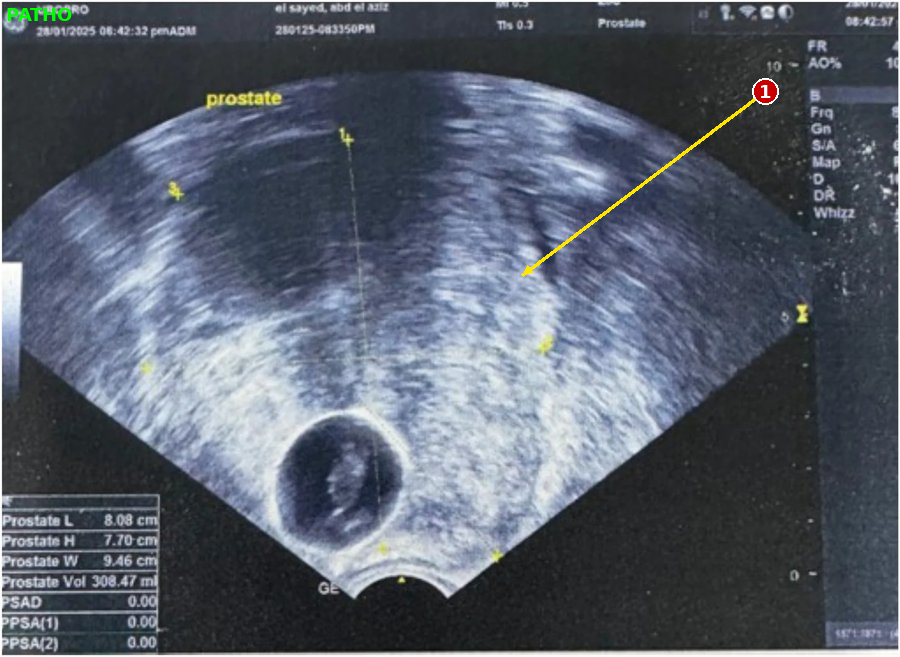
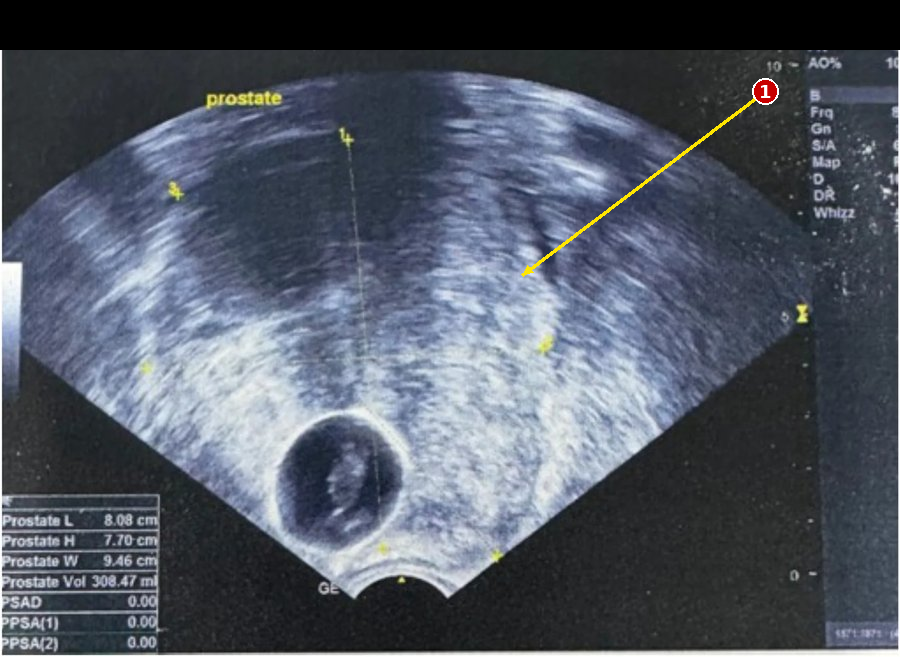
IMG-242 : bandeau avec le nom du patient masqué ; audits images 238-268 et Management/KK.
Claude-Session: https://claude.ai/code/session_01JErHPrLsKaTuQ8vQo4KBsh

Changed region(s): [[0.0, 0.0, 1.0, 0.0913]]

diff --git a/Claude/_progression/donnees/semiologie/AUDIT_M_KK.md b/Claude/_progression/donnees/semiologie/AUDIT_M_KK.md
@@ -1,0 +1,62 @@
+# Audit médical agressif : Management M-01 à M-17 et Communication K-01 à K-18
+
+Version auditée : 35 fichiers JSON, 125 439 octets, SHA-256 de la concaténation `4706b7b7…9659` (commit 5c1f24343). Date : 14.11.2026. Auditeur indépendant (non rédacteur). Le score 14 points du §12.2 ne s'applique pas (fiches, pas monographies) ; chaque axe reçoit donc 2, 1 ou 0.
+
+## Ce que j'ai réellement lu et vérifié
+
+| Contrôle | Source ouverte ce jour | Résultat |
+|---|---|---|
+| Quatre dimensions KK | Exigences MED 2026 § 5.1.4 b (PDF OFSP) | Citation **exacte** dans K-01 à K-04 ; dimensions 1 et 4 non évaluées sans PS : exact |
+| Ancres 1–5 | Directives MED 2026 § 4.3 h | Mention « construites, non officielles » présente dans K-01 à K-04 ; § 4.3 h exact |
+| Format des stations | Informations MED 2026 § 5.1–5.6, note 1 ; Directives § 4.3 b, 5.2 e, 6.2 ; Richtlinien (de) § 5.2 e | Exact (4 + 9 min, 8 min, pas de résumé en CR, matériel, dialecte) |
+| Adrénaline, amiodarone | AIPS refdata via `aips_fiche.py` : Adrenalin Aguettant 1 mg/mL n° 66396 (juin 2023) ; Amiodarone Labatec i.v. n° 59528 (mars 2025) | Citations **mot pour mot exactes**, numéros et dates exacts |
+| ALS : moment des médicaments, accès | SIRMED (Suisse), « Reanimation 2025 », paraplegie.ch ; (source européenne : Resuscitation Council UK, algorithme ALS 2025) | Voir défaut G1 |
+| Capacité de discernement | ASSM, directives « La capacité de discernement dans la pratique médicale » (2019, approuvées 29.11.2018), § 2.3, 2.4 | Voir M1, M2 |
+| CC art. 16, 371, 378, 379, 429, 430, 434, 439 | fedlex, filestore, version du 1.1.2026 | Contenu des fiches exact ; « non relu » désormais levable |
+| Guide ASSM 2022 | Zenodo 7148494, PDF lu | 10 citations « dire » vérifiées mot pour mot (vignette, thoracoscopie, OARS, DA, NURSE « pas déjà », 12 ans, 7 ans) |
+| smarter medicine | SSMIG 2014 (5 points), SSMIG 2021_II point 1, SSI 2020 (5 points) | Exact ; bactériurie absente de la liste SSI (voir M4) |
+| Calcul M-04 | Python : 0,2/0,8 = 0,25 ; × 10 = 2,5 ; 2,5/3,5 = 0,714 | Exact |
+| Liens | 219 identifiants du corpus | Aucun lien mort |
+
+## Défauts et PATCH exacts
+
+| # | Gravité | Emplacement | Extrait (mot pour mot) | PATCH | Source |
+|---|---|---|---|---|---|
+| G1 | **Grave** | M-03, étape 5, `faire` 3 et 4 | « Administrer l'adrénaline selon l'AIPS : « Administration de 1 ml… » » | Insérer avant la citation : « Donner l'adrénaline dès que possible en asystolie ou en activité électrique sans pouls ; en rythme choquable, après le 3e choc, puis toutes les 3 à 5 minutes. » Insérer avant l'amiodarone : « Donner l'amiodarone après le 3e choc ; envisager 150 mg après le 5e choc. » Remplacer « Poser un accès veineux ou intraosseux » par « Poser d'abord un accès veineux, puis un accès intraosseux si la voie veineuse échoue ». | SIRMED, Reanimation 2025 (« i.v. VOR i.o. », « ERC: nach dem 3. Schock ») ; (source européenne : RC UK ALS 2025) |
+| M1 | Moyen | M-14, étape 1, `faire` 1 | « la capacité se juge pour une décision donnée, à un moment donné (CC art. 16, cité par l'ASSM) » | Remplacer la parenthèse par « (ASSM, directives Capacité de discernement 2019, § 2.3 ; l'art. 16 CC ne le dit pas lui-même) ». | ASSM 2019 § 2.3 ; CC art. 16 |
+| M2 | Moyen | M-14, étape 1, `faire` 2 ; grille 2 ; source 4 | « comprendre l'information, apprécier sa situation, raisonner sur les options, exprimer un choix stable (directives ASSM 2018, non lues, À vérifier) » | « Tester quatre capacités : compréhension, évaluation, formation de la volonté, concrétisation de la volonté (ASSM 2019, § 2.4, lu) ». Source 4 : « ASSM, … (2019) — lu le 14.11.2026, § 2.3–2.4 ». | ASSM 2019 § 2.4 |
+| M3 | Moyen | M-14 étape 4 ; M-15 étape 3 ; M-16 étape 6 ; sources CC de M-14, M-15, M-16, K-14 | « selon l'ordre du CC (non relu, À vérifier) » ; « CC, non relu » | Écrire l'ordre de l'art. 378 al. 1 (personne désignée, curateur, conjoint, concubin, descendants, parents, frères et sœurs, chacun s'il assiste régulièrement) ; citer l'art. 379 ; art. 371 al. 1 « datées et signées » ; M-15 : ajouter « délai d'appel de dix jours (art. 439 al. 2) », « informer si possible un proche par écrit (art. 430 al. 5) » et les trois conditions du traitement sans consentement (art. 434). Remplacer « non relus » par « lus le 14.11.2026 (fedlex, version 1.1.2026) ». | CC art. 371, 378, 379, 430, 434, 439 |
+| M4 | Moyen | M-06, `erreurs` 3 | « Traiter une bactériurie asymptomatique hors grossesse (déduction, À vérifier). » | « Traiter une bactériurie asymptomatique, sauf grossesse, greffe ou geste urologique invasif (cas par cas, avis infectiologique) (HUG 2026). » Ajouter un exemple de 1re ligne (cystite : nitrofurantoïne ou fosfomycine, HUG 2026), doses AIPS via `aips_fiche.py`. | HUG, Stratégie « Infections urinaires » 2026, p. 17 |
+| M5 | Moyen | M-07, étape 4 et sources 5–6 | « (OMS, dernier recours, À vérifier) » ; « DN4 — non lu » | Citer la source suisse lue : « HUG, Stratégie Douleur aiguë 2024 (paliers OMS, DN4, laxatif systématique) ». Garder l'OMS en second. | HUG Douleur aiguë 2024, § 3–4.2 |
+| M6 | Moyen | M-07, `exemple_station` | « explique la somnolence possible et la conduite interdite » | « … et l'interdiction de conduire tant qu'il se sent somnolent » (cohérent avec l'étape 5). | Cohérence interne |
+| M7 | Moyen | M-02, étape A ; `exemple_station` | « Libérer les voies aériennes… » (cas d'un cycliste traumatisé) | Ajouter : « Chez le traumatisé, limiter les mouvements du rachis cervical pendant A. » Remplacer la source ATLS (américaine, non lue) par une source européenne : Rossaint et al., European guideline on management of major bleeding after trauma, 6e éd., Crit Care 2023 — à lire. | Règle « aucune source américaine exclusive » |
+| M8 | Moyen | K-15, `exemple_station` | « L'examinateur note la communication avec l'infirmier et avec le médecin appelé. » | « L'examinateur note la communication avec le patient et avec l'infirmier (Informations MED 2026 § 5.5). » | Informations MED 2026 § 5.5 |
+| M9 | Moyen | M-03 étape 6 ; M-16 étapes 4 et 6 | Aucune source suisse sur la décision de réanimation | Ajouter « ASSM, Directives Décisions de réanimation (éd. 2021) — non lu, À vérifier » et l'étape « Informer des chances réalistes de survie avant de demander le choix ». | ASSM (édition 2013 trouvée sur sams.ch ; 2021 non lue) |
+| L1 | Léger | K-14, étape 4 | « l'ASSM écrit : « Dès douze ans, les adolescents sont capables de discernement » » | Citation exacte (vérifiée). Ajouter : « repères ASSM 2019 : 12 ans pour une intervention simple, 16 ans pour un traitement complexe ou long ». | ASSM 2019, p. 20 |
+| L2 | Léger | M-14, M-15, M-16, K-14 sources | « art. 16 (cité mot pour mot par l'ASSM 2022) » | L'ASSM cite l'ancienne teneur (« à cause de ») ; écrire « teneur en vigueur : « en raison de son jeune âge… » ». | CC art. 16 |
+| L3 | Léger | M-03, étape 5, `faire` 5 | « hypothermie » | « hypo- ou hyperthermie » ; ajouter « envisager la position antéro-postérieure des électrodes après 3 chocs ». | RC UK ALS 2025 |
+| L4 | Léger | M-03, étape 3 | « chez l'enfant et le noyé, commencer par cinq insufflations puis 15:2 (enfant) » | « … puis 15:2 si formé à la réanimation pédiatrique, sinon 30:2 ». | SIRMED 2025 |
+| L5 | Léger | M-10, ponction lombaire | « ou œdème papillaire (ESCMID…) » | ESCMID 2016 retient un GCS < 10, pas l'œdème papillaire ; corriger après lecture. | ESCMID 2016 (à lire) |
+| L6 | Léger | M-01 et M-02, `exemple_station` | « Mme Meier, 45 ans… (exemple officiel) » ; « contrôle d'abord une hémorragie visible » | Séparer : « Exemple officiel : … » puis « Déroulé construit : … » ; l'âge et l'hémorragie ne figurent pas dans le texte officiel. | Informations MED 2026 § 5.1, 5.5 |
+| L7 | Léger | K-18, étape 2 | « Dörf ich Hochdütsch rede ? … » | Un candidat qui comprend mal le dialecte demande en allemand standard : « Könnten wir bitte Hochdeutsch sprechen? Ich verstehe den Dialekt leider nicht so gut. » | Réalisme |
+| L8 | Léger | K-01 à K-04, dernière ligne de grille | « Station sans PS : dimension non évaluée. » | Phrase verbale : « L'examinateur n'évalue pas cette dimension sans PS. » | Règle des phrases verbales |
+| L9 | Léger | M-17 et K-17 | Même scénario (antihypertenseur du voisin) | Changer l'un des deux (ex. K-17 : surdosage d'insuline et hypoglycémie). | Redondance |
+
+## Score par axe (2 / 1 / 0)
+
+| Axe | Note | Raison |
+|---|---|---|
+| Doses AIPS | 2 | Deux citations exactes, numéros et dates justes ; aucune dose hors AIPS |
+| ABCDE, BLS/ALS | 1 | BLS conforme ; ALS sans moment des médicaments ni priorité veineuse (G1, M7) |
+| Antibiothérapie, antalgie | 1 | Principes justes ; sources suisses lisibles non utilisées (M4, M5) |
+| Discernement, CC, directives anticipées | 1 | Contenu juste ; critères ASSM et articles CC « non lus » alors que lisibles (M1–M3) |
+| Quatre dimensions KK, ancres | 2 | Citation exacte, mention « construites, non officielles » présente |
+| Réalisme des formulations et stations | 1 | Bon dans l'ensemble ; M6, M8, L6, L7 |
+| Étiquetage des sources, honnêteté lu/non lu | 1 | Honnête, mais ATLS américain seul (M7) et recherches incomplètes (ASSM 2019, CC) |
+| Phrases verbales | 2 | Respectées, sauf L8 |
+
+Total : 11 / 16 = 69 %. Aucun défaut critique.
+
+## Verdict
+
+**Question finale : non.** Le lot reste refusé tant que G1 et M1–M9 ne sont pas corrigés. Il manque : le moment de l'adrénaline et de l'amiodarone en ALS ; les critères ASSM 2019 et le texte du CC, désormais lisibles ; les sources suisses HUG pour l'antibiothérapie et l'antalgie ; une source européenne à la place de l'ATLS ; la lecture de l'ERC 2025 ALS et des directives ASSM Décisions de réanimation 2021. Après ces PATCH, le lot peut passer en `audit-ok`.

diff --git a/Claude/_progression/recensement/enrichi/AUDIT_IMAGES_238_268.md b/Claude/_progression/recensement/enrichi/AUDIT_IMAGES_238_268.md
@@ -1,0 +1,38 @@
+# Audit radiologique des images IMG-238 à IMG-268 (PE_MS.json), 14.11.2026
+
+Méthode : chaque copie `_verif/IMG-xxx.png` a été regardée. Légende et licence de chaque article relues dans le XML Europe PMC. Pour 262, les figures source (fichiers `i210247-2` et `-3` de PMC9948152) ont été téléchargées et comparées à `img/IMG-262_patho.jpg`.
+
+**Verdict : corrections requises** (1 critique, 4 majeurs).
+
+## 1. Critique
+
+| id | Défaut constaté | PATCH exact |
+|---|---|---|
+| 262 RCIU | L'image retenue est le fichier `i210247-2` de PMC9948152. Le bandeau de l'appareil y indique « 3 Trim ». Le spectre passe **sous la ligne de base** en fin de diastole, au point désigné par la flèche « ED » : c'est une **diastole inversée (REDV)**, et non une diastole nulle. Le vrai tracé AEDV du 2e trimestre est le fichier `-3`, où la diastole reste à 0 au niveau de « EDV ». Le texte enseigne donc le mauvais stade. | Option 1, garder l'image et corriger le texte : `technique` = « Doppler pulsé de l'artère ombilicale au troisième trimestre : diastole inversée (REDV) ; annotations des auteurs » ; `lesion` = « diastole inversée (REDV) » ; `semio` = « Le flux passe sous la ligne de base en fin de diastole : c'est le stade le plus sévère, à haut risque d'acidose et de mort fœtale, qui impose une décision d'extraction selon le terme. » Option 2 : remplacer l'image par le fichier `i210247-3` (AEDV, 2e trimestre, CC BY 4.0), avec le repère 1 sur la pointe « EDV », à poser puis contrôler sur `_verif`. |
+
+## 2. Majeurs
+
+| id | Défaut constaté | PATCH exact |
+|---|---|---|
+| 242 HBP | Le **nom du patient** et la date figurent en clair dans le bandeau supérieur du cliché (`_verif`). Le dépôt est public : aucune donnée personnelle n'y est admise. | Recadrer `img/IMG-242_patho.jpg` pour supprimer la bande supérieure (environ 8 % de la hauteur). Recalculer ensuite le repère 1 : y = (42 − 8)/0,92 ≈ 37 ; x inchangé. Régénérer `_verif`. |
+| 240 Rupture vésicale | Le cliché est en fenêtre large et presque noir. Il ne permet pas de voir la fuite de contraste que la `semio` décrit. La légende la mentionne, mais l'œil ne la retrouve pas. L'examen n'est pas une cysto-TDM, ce qui est bien déclaré. | Ajuster le fenêtrage (niveau et contraste) de `img/IMG-240_patho.jpg`, puis le déclarer dans `technique`. Si rien n'apparaît : `semio` = « La paroi du dôme s'interrompt (flèche) au contact d'une ascite abondante ; la fuite de contraste se démontre au mieux par une cysto-TDM rétrograde ». |
+| 252 Torsion d'annexe | La `semio` du repère 3 parle de « flux conservé ». La légende de la fig. 6 dit au contraire « absent ovarian vascularity » chez les deux patientes. Les signaux colorés de B sont extra-ovariens. | Repère 3 : `lesion` = « ovaire sans flux interne » ; `semio` = « Chez la deuxième patiente, l'ovaire ne contient aucun signal couleur ; les signaux visibles restent extra-ovariens. » Le message « un flux conservé n'exclut pas la torsion » passe dans `syndrome`. |
+| 248 Abcès prostatique | Les pointes des repères tombent à la limite entre l'abcès et le parenchyme échogène, et non dans les plages « AB » des auteurs. | Repère 1 : x = 36, y = 33. Repère 2 : x = 64, y = 37. Contrôler sur `_verif`. |
+
+## 3. Mineurs
+
+| id | Défaut constaté → PATCH |
+|---|---|
+| 247 | Licence « CC BY-SA » erronée : la source (SA J Radiol, AOSIS) porte « Creative Commons Attribution License » → `licence` = « CC BY ». La description « vaisseaux fémoraux (flèche blanche) ; hydrocèle (flèche noire) » ne figure pas dans la légende de la fig. 2 → la retirer ou la sourcer dans le texte. |
+| 255 | Le repère 2 (72 ; 58) tombe sur le stroma central → déplacer sur la couronne folliculaire, x = 82, y = 45. Le contexte (stimulation ovarienne, hyperstimulation sévère) est à ajouter dans `technique`. |
+| 254 | Le normal vient d'une patiente traitée pour un cancer du rectum. C'est déclaré, et la coupe est sus-jacente à la tumeur : utérus et ovaires normaux. Remplacement souhaitable mais non bloquant. |
+| 249 / 252 / 253 / 255 | Le même ovaire normal (PMC4745314, « unremarkable scan ») est utilisé quatre fois. La réutilisation n'est pas trompeuse. Pour 252, la technique diffère (sus-pubienne pédiatrique contre endovaginale adulte) → à déclarer dans `technique`. |
+| 239 | « même patiente » → « même patient » : la prostate est mesurée, il s'agit d'un homme. |
+| 244 | Le normal vient d'un garçon de 12 ans, le patho d'un homme de 59 ans : âge à déclarer (c'est déjà fait pour le normal). |
+| 265 | Le normal est en T2, le patho en STIR → préciser « séquence différente » dans `technique`. |
+
+## 4. Contrôles sans défaut
+
+238, 241, 243, 245, 246, 249, 250, 251, 253, 256, 257, 258, 259, 260, 261 (fig. 9 vérifiée), 263, 264, 266, 267, 268.
+
+Licences : CC BY 2.0, 3.0 ou 4.0, vérifiées dans le XML, sauf l'étiquette de 247. Le crédit est présent partout.
